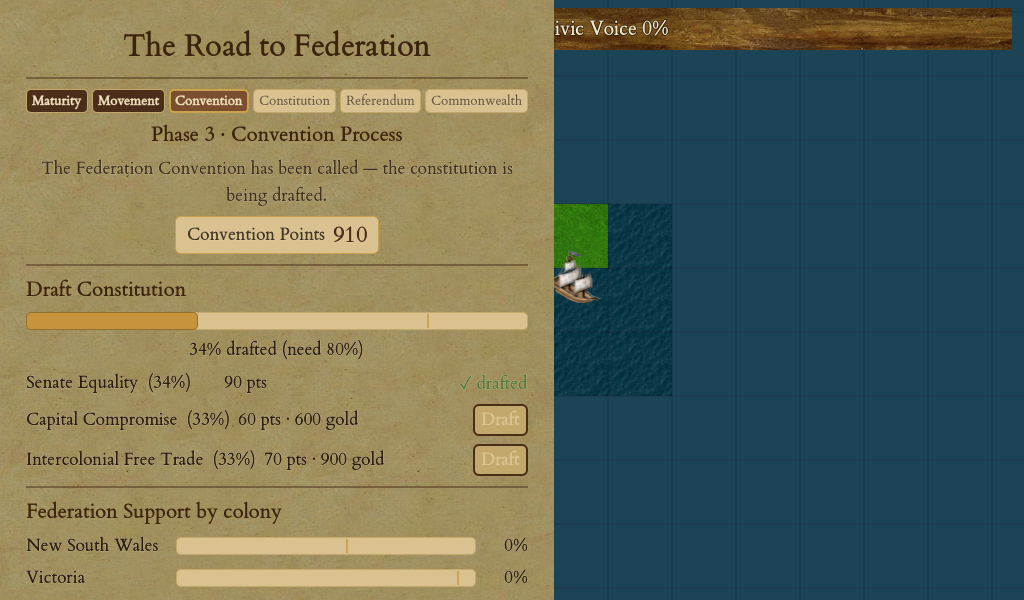
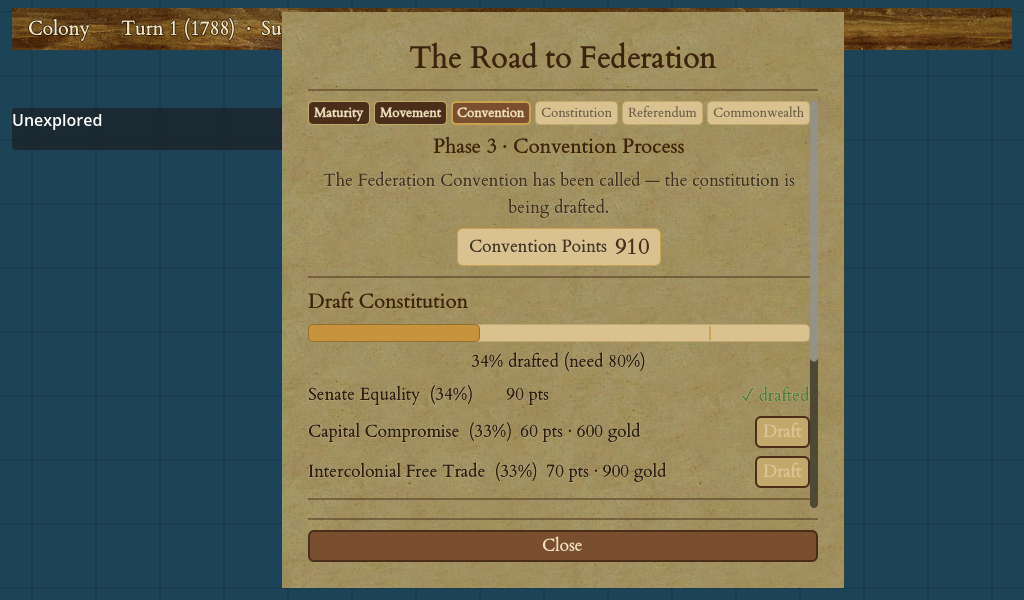
fix(australia): FederationPanel overflow — scroll + cap + centre (Close was off-screen)

diff --git a/game/presentation/tests/FederationPanelTests.cs b/game/presentation/tests/FederationPanelTests.cs
@@ -58,7 +58,7 @@ public class FederationPanelTests
         await runner.SimulateFrames(1);
 
         AssertThat(panel.Visible).IsTrue();
-        var body = panel.GetNode<VBoxContainer>($"VBox/{FederationPanel.BodyName}");
+        var body = panel.GetNode<VBoxContainer>($"VBox/Scroll/{FederationPanel.BodyName}");
         AssertThat(body.GetNodeOrNull("PhaseLine")).IsNotNull();
         AssertThat(body.GetNodeOrNull("ConventionPoints")).IsNotNull();
         // One row per federation region, in canonical order.
@@ -88,7 +88,7 @@ public class FederationPanelTests
         panel.Open(game, () => { });
         await runner.SimulateFrames(1);
 
-        var body = panel.GetNode<VBoxContainer>($"VBox/{FederationPanel.BodyName}");
+        var body = panel.GetNode<VBoxContainer>($"VBox/Scroll/{FederationPanel.BodyName}");
         // The six-step phase tracker (WS3.8 — doc 05's named stages), with a chip per stage.
         var tracker = body.GetNodeOrNull<HBoxContainer>("PhaseTracker");
         AssertThat(tracker).IsNotNull();
@@ -125,7 +125,7 @@ public class FederationPanelTests
         panel.Open(drafted, () => { });
         await runner.SimulateFrames(1);
 
-        var stageName = panel.GetNode<Label>($"VBox/{FederationPanel.BodyName}/StageName");
+        var stageName = panel.GetNode<Label>($"VBox/Scroll/{FederationPanel.BodyName}/StageName");
         AssertThat(stageName.Text).Contains("Phase 4");
         AssertThat(stageName.Text).Contains("Draft Constitution");
 
@@ -151,12 +151,38 @@ public class FederationPanelTests
         panel.Open(game, () => { });
         await runner.SimulateFrames(1);
 
-        var body = panel.GetNode<VBoxContainer>($"VBox/{FederationPanel.BodyName}");
+        var body = panel.GetNode<VBoxContainer>($"VBox/Scroll/{FederationPanel.BodyName}");
         var nswMark = body.GetNode<ColorRect>("Region_newSouthWales/Bar/ReferendumMark");
         var tasMark = body.GetNode<ColorRect>("Region_tasmania/Bar/ReferendumMark");
         AssertThat(nswMark.AnchorLeft).IsEqualApprox(0.57f, 0.001f);
         AssertThat(tasMark.AnchorLeft).IsEqualApprox(0.94f, 0.001f);
         AssertThat(nswMark.AnchorLeft).IsLess(tasMark.AnchorLeft); // the per-region bars genuinely differ
+
+        panel.QueueFree();
+    }
+
+    [TestCase]
+    public async Task Open_CapsThePanelToTheViewport_AndKeepsCloseReachable()
+    {
+        // Regression guard: the feature-rich body (drafting section + six support gauges) must scroll inside a capped,
+        // centred shell — never push the Close button off-screen (the code-built-overlay overflow trap).
+        ISceneRunner runner = ISceneRunner.Load("res://scenes/MainMenu.tscn");
+        await runner.SimulateFrames(2);
+        var host = (Control)runner.Scene();
+
+        Game game = NewAustralia();
+        FoundIn(game, AustraliaColony.NewSouthWales);
+        Game convention = (SaveGame.From(game, "australia") with { FederationPhase = (int)FederationPhase.ConventionCalled, ConventionPoints = 1000 })
+            .Restore(Australia);
+        FederationPanel panel = AddPanel(host);
+        panel.Open(convention, () => { });
+        await runner.SimulateFrames(2);
+
+        // The body sits inside a ScrollContainer; Close is pinned in the VBox (a sibling of the scroll) so it is always in
+        // the panel; and the panel never exceeds the viewport height (the scroll takes any overflow).
+        AssertThat(panel.GetNodeOrNull("VBox/Scroll")).IsNotNull();
+        AssertThat(panel.GetNodeOrNull("VBox/CloseButton")).IsNotNull();
+        AssertThat(panel.Size.Y).IsLessEqual(panel.GetViewportRect().Size.Y);
 
         panel.QueueFree();
     }
@@ -175,7 +201,7 @@ public class FederationPanelTests
         panel.Open(game, () => { });
         await runner.SimulateFrames(1);
 
-        var body = panel.GetNode<VBoxContainer>($"VBox/{FederationPanel.BodyName}");
+        var body = panel.GetNode<VBoxContainer>($"VBox/Scroll/{FederationPanel.BodyName}");
         var button = body.GetNode<Button>("CallConventionButton");
         AssertThat(button.Disabled).IsTrue();
         AssertThat(body.GetNodeOrNull("CallConventionButtonReason")).IsNotNull();
@@ -201,7 +227,7 @@ public class FederationPanelTests
         panel.Open(convention, () => { });
         await runner.SimulateFrames(1);
 
-        var body = panel.GetNode<VBoxContainer>($"VBox/{FederationPanel.BodyName}");
+        var body = panel.GetNode<VBoxContainer>($"VBox/Scroll/{FederationPanel.BodyName}");
         AssertThat(body.GetNodeOrNull("DraftHeader")).IsNotNull();
         AssertThat(body.GetNodeOrNull("ConstitutionProgressBar")).IsNotNull();
         AssertThat(body.GetNodeOrNull("Clause_senateEquality")).IsNotNull();
@@ -227,12 +253,12 @@ public class FederationPanelTests
         await runner.SimulateFrames(1);
 
         AssertThat(convention.ConstitutionProgressPercent).IsEqual(0);
-        var body = panel.GetNode<VBoxContainer>($"VBox/{FederationPanel.BodyName}");
+        var body = panel.GetNode<VBoxContainer>($"VBox/Scroll/{FederationPanel.BodyName}");
         body.GetNode<Button>("Clause_senateEquality/DraftButton").EmitSignal(Button.SignalName.Pressed);
         await runner.SimulateFrames(1);
 
         AssertThat(convention.ConstitutionProgressPercent).IsEqual(34); // Senate Equality (weight 34) is now drafted
-        body = panel.GetNode<VBoxContainer>($"VBox/{FederationPanel.BodyName}");
+        body = panel.GetNode<VBoxContainer>($"VBox/Scroll/{FederationPanel.BodyName}");
         AssertThat(body.GetNodeOrNull("Clause_senateEquality/DraftButton")).IsNull(); // the row rebuilt to a drafted tick
         AssertThat(body.GetNodeOrNull("Clause_senateEquality/Drafted")).IsNotNull();
 

diff --git a/game/presentation/FederationPanel.cs b/game/presentation/FederationPanel.cs
@@ -87,6 +87,10 @@ public partial class FederationPanel : PanelContainer
         AddThemeStyleboxOverride("panel", ColonyArt.ParchmentSkin());
         Visible = false;
         CustomMinimumSize = new Vector2(440, 0);
+        // Centre + height-cap the panel: the feature-rich body (phase tracker, drafting, six support gauges, actions) can
+        // exceed the viewport, so the body scrolls inside a capped, centred shell with the Title + Close pinned outside it —
+        // otherwise Close is pushed off-screen (the godot-overlay-modal-pattern). Re-laid-out on show + on viewport resize.
+        GetViewport().SizeChanged += Relayout;
 
         var vbox = new VBoxContainer { Name = "VBox" };
         vbox.AddThemeConstantOverride("separation", 8);
@@ -102,14 +106,38 @@ public partial class FederationPanel : PanelContainer
         vbox.AddChild(_title);
         vbox.AddChild(new HSeparator());
 
-        _body = new VBoxContainer { Name = BodyName };
+        _body = new VBoxContainer { Name = BodyName, SizeFlagsHorizontal = SizeFlags.ExpandFill };
         _body.AddThemeConstantOverride("separation", 8);
-        vbox.AddChild(_body);
+        var scroll = new ScrollContainer
+        {
+            Name = "Scroll",
+            SizeFlagsVertical = SizeFlags.ExpandFill,
+            HorizontalScrollMode = ScrollContainer.ScrollMode.Disabled, // vertical-only; the body never scrolls sideways
+        };
+        scroll.AddChild(_body);
+        vbox.AddChild(scroll);
 
         vbox.AddChild(new HSeparator());
         var close = new Button { Name = "CloseButton", Text = "Close" };
         close.Pressed += Hide;
         vbox.AddChild(close);
+    }
+
+    /// <summary>The non-scrolling shell height (title + two separators + Close + the VBox separations) — the body height is added on top, capped at the viewport.</summary>
+    private const float PanelChromeHeight = 120f;
+
+    /// <summary>
+    /// Centres the panel over the viewport and caps its height so the body scrolls rather than pushing Close off-screen
+    /// (the code-built-overlay contract). Sizes to the body's content plus the fixed chrome when that fits, else to the
+    /// viewport (leaving the scroll to take the overflow). Called deferred after each render + on viewport resize.
+    /// </summary>
+    private void Relayout()
+    {
+        Vector2 vp = GetViewportRect().Size;
+        float width = Mathf.Min(460f, Mathf.Max(440f, vp.X - 24f));
+        float height = Mathf.Min(_body.GetCombinedMinimumSize().Y + PanelChromeHeight, vp.Y - 24f);
+        Size = new Vector2(width, height);
+        Position = new Vector2(Mathf.Max(0f, (vp.X - width) / 2f), Mathf.Max(12f, (vp.Y - height) / 2f));
     }
 
     /// <summary>
@@ -209,6 +237,8 @@ public partial class FederationPanel : PanelContainer
         _body.AddChild(new HSeparator());
 
         AddActions();
+
+        Callable.From(Relayout).CallDeferred(); // re-cap + re-centre once the rebuilt body has laid out to its real height
     }
 
     /// <summary>

diff --git a/docs/systems/federation-victory.md b/docs/systems/federation-victory.md
@@ -167,6 +167,7 @@ The Convention-Points sub-point remainder (`_conventionPointsHundredths`) is **e
 
 | Date | Change | Commit |
 |---|---|---|
+| 2026-07-12 | **FederationPanel overflow fix (presentation).** The panel had grown feature-rich (WS2.7 tracker + WS3.8 era indicator + WS3.3 drafting section + six support gauges + actions) and its code-built shell sized to content with no scroll, so at the drafting phase the lower gauges and the **Close button were pushed off-screen** (unreachable). The body is now wrapped in a `ScrollContainer` inside a **centred, viewport-height-capped** shell with Title + Close pinned outside it (the `godot-overlay-modal-pattern`): `_Ready` builds `VBox → [Title, Scroll → Body, Close]`, and a `Relayout` (deferred after each render + on viewport resize) sizes the panel to `min(content + chrome, viewport − margin)` and centres it. +1 L3 (`FederationPanelTests`: the panel never exceeds the viewport height and Close stays present); the other panel tests' body paths move to `VBox/Scroll/Body`. Render-verified (`australia-constitution-drafting.png` — centred, scrollbar, Close reachable). Presentation-only (ADR-006). | (this commit) |
 | 2026-07-12 | **Constitution drafting — interactive UI (WS3.3 M2, presentation).** The `FederationPanel` gains a **Draft Constitution** section (shown while a convention is drafting): a styled progress gauge toward the ≥80% completion gate with a gold marker at the gate, and one row per curated clause — name, weight, cost (Convention Points + gold), and either a gold **Draft** button (disabled-with-reason as a tooltip when unaffordable) or a "✓ drafted" tick. Pressing Draft forwards `Game.DraftClause` and rebuilds. Reads the WS3.3 M1 oracles (`ConstitutionClauses` / `ConstitutionProgressPercent` / `ConstitutionDraftThreshold`); no rules change (ADR-006). +2 L3 (`FederationPanelTests`: the section renders the gauge + clause rows at ConventionCalled; a Draft button drafts its clause on press and the row rebuilds to the drafted tick). Render-verified (`docs/guide/img/australia-constitution-drafting.png`). Completes WS3.3. | (this commit) |
 | 2026-07-12 | **Constitution drafting — clauses + progress meter (WS3.3 M1, design doc 05 Phase 4).** The constitution used to "draft itself" on a flat 400 Convention-Point gate; the human now **drafts constitutional clauses**, each spending banked Convention Points (and sometimes gold) and adding its weight to a real 0–100% **`ConstitutionProgressPercent`** meter. `ResolveCommonwealthFederation` advances `ConventionCalled → ConstitutionDrafted` once progress reaches **`ConstitutionDraftThresholdPercent` (80)** — the design's Phase-5 "≥80% drafted" gate (replacing the retired flat gate). New in `Game.Constitution.cs`: `DraftClause` / `CheckDraftClause` / `ConstitutionClauses()` (panel read) / `SpendConventionPoints` / `DraftedClauses`, all Australia-only (classic reads empty / 0 / No). Clause effects are **one-off at draft time** (like the Pioneer on-election effects) through existing levers, so nothing re-applies on load. **Griffith's "+30% draft progress" is re-pointed** from the retired +120-CP on-election proxy to a **live meter bonus** derived from his Congress seat (the Quick-relief precedent, no save state). Three curated **non-sensitive** clauses (weights sum 100): **Senate Equality** (SA/Tas/WA +25 support, NSW/Vic −8; 90 CP), **Capital Compromise** (NSW/Vic referendum target −3; 60 CP + 600 gold), **Intercolonial Free Trade** (one-off +12 nationwide support proxy; 70 CP + 900 gold). **Held/deferred:** Immigration Policy is a **sensitive-hold** (the White Australia Policy — awaits Chris's cultural-protocol sign-off, doc 15 / 4c.11); Defence Union / High Court / Railway Standardisation and Free Trade's faithful standing-modifier form need systems that don't exist (§5). Costs/magnitudes are first-pass, tunable. SaveGame **v74**: `DraftedConstitutionClauses` slice, omit-when-default (classic + no-clause Australia byte-identical). +6 L1 (`FederationVictoryTests`: gate clauses, cost/effect, progress + Griffith bonus, ≥80% draft transition, save round-trip; `AustralianContentTests`: Griffith now contributes progress not CP). M1 also adds a read-only progress line to the `FederationPanel`; the interactive per-clause drafting UI + L3 are **M2**. Full L1/L2 2970 + determinism soak green. | (this commit) |
 | 2026-07-12 | **Phase-1/2 prerequisite gates wired (WS3.7 — Federation depth).** The convention could previously be called on region-support + Convention Points alone; the design's **Phase 1 (Colonial Maturity)** and **Phase 2 (Federation Movement)** prerequisites (doc 05 §"Victory phases") are now real hard gates before it. Two new pure-read oracles in `Game.Federation.cs`: **`CheckColonialMaturity()`** — ≥4 colony regions hold a `ColonialCapital` (`SettlementMaturityOf`), ≥3 regions settled, ≥2 trade routes; and **`CheckFederationMovement()`** — the movement is under way (`FederationMovementUnderway`: the 1889+ Federation era **or** Henry Parkes elected), ≥4 regions settled, ≥2 newspapers. Both are wired as hard preconditions into `CheckCallConvention` *before* the existing support/points checks (earliest-unmet prerequisite surfaced first), so you cannot call a convention until the colonies have matured and the movement has begun. Reuses the existing WS2.7 maturity oracles (`SettlementMaturityOf` / `IsColonyRegionActive`) — **no new systems**. The two design "Civic Voice threshold" criteria carry no design number and are **folded** into the stronger maturity/movement signals (the 4-capital gate already implies large civic output). Also refined WS3.8's `CurrentFederationStage` Maturity→Movement split to use `FederationMovementUnderway` (so electing Parkes before 1889 shows "Federation Movement"). Counts are central `internal const`s (Phase1CapitalRegions=4 / Phase1SettledRegions=3 / Phase1TradeRoutes=2 / Phase2SettledRegions=4 / Phase2Newspapers=2), **adopted as-is from doc 05 (Chris, 2026-07-12) — steep is intended**, tunable after playtest. **No persisted state, no save bump** → classic byte-identical (the gates return No at the `VictoryFederation` guard). Deferred (no oracle): true region-spanning "intercolonial" trade routes, discovered-but-unsettled regions, the trade-friction era criterion. +5 L1 (`FederationVictoryTests`: each gate's clauses, classic-No, and the convention now gated by maturity/movement but opening when all met). Full L1/L2 2965 + determinism soak + L3 `FederationPanelTests` green. | (this commit) |

diff --git a/PostWorkSummary.md b/PostWorkSummary.md
@@ -19,6 +19,18 @@ A running, at-a-glance log of what Claude completed after each prompt / area of 
 
 ---
 
+## 2026-07-12 — FederationPanel overflow fix (autonomous)
+
+**Requested (Chris):** autonomous continuation. Self-identified bug: the feature-rich FederationPanel overflowed.
+**Did:** The panel had grown a lot (WS2.7 tracker + WS3.8 era + WS3.3 drafting section + 6 support gauges), and its code-built shell sized to content with **no scroll** → at the drafting phase the **Close button was off-screen** (unreachable — a real usability bug my recent work created). Wrapped the body in a `ScrollContainer` inside a **centred, viewport-capped** shell with Title + Close pinned (the `godot-overlay-modal-pattern`); a deferred `Relayout` sizes to `min(content+chrome, viewport−margin)` + centres. Also added the full **E2E Federation-journey L2 test** (maturity → movement → convention → drafting → referendum → Commonwealth win through the real actions) — proving the WS3 depth streams integrate + Federation is winnable end-to-end.
+**Status:** **committing, then CI**. Build ✓; +1 L3 (panel capped + Close reachable) + the E2E L2 test; all 8 `FederationPanelTests` green (body paths → `VBox/Scroll/Body`). Render-verified (`australia-constitution-drafting.png` — centred, scrollbar, Close reachable). E2E committed separately (765aa44).
+**Changed:** `FederationPanel.cs` (ScrollContainer + Relayout), `FederationPanelTests.cs` (+1 guard, body paths), `federation-victory.md` (changelog + L2 E2E verification), `australia-constitution-drafting.png` + `australia-federation.png` (regen).
+**Decisions:** applied the documented overlay pattern (scroll + cap + centre) rather than a fixed-size dialog (content-hug when short, scroll when tall).
+**Scheduled next (autonomous):** the clean backing-oracle Federation-depth work is done (WS3.2/3.7/3.8/3.3); the remaining WS3 (3.5 Anti-Federation Sentiment / 3.6 NSW quota + WA late-entry) needs **un-backed design invention** (formulas / quota numbers / a victory-mode decision) that's genuinely yours — I'll write those up + a Session Log entry rather than invent contested design solo.
+**Needs you:** decisions on WS3.5/3.6 numbers when you're back; Immigration Policy clause sign-off.
+
+---
+
 ## 2026-07-12 — WS3.3 M2: interactive constitution-drafting UI (autonomous)
 
 **Requested (Chris):** autonomous continuation. M2 = the interactive drafting UI (M1 shipped the logic).
